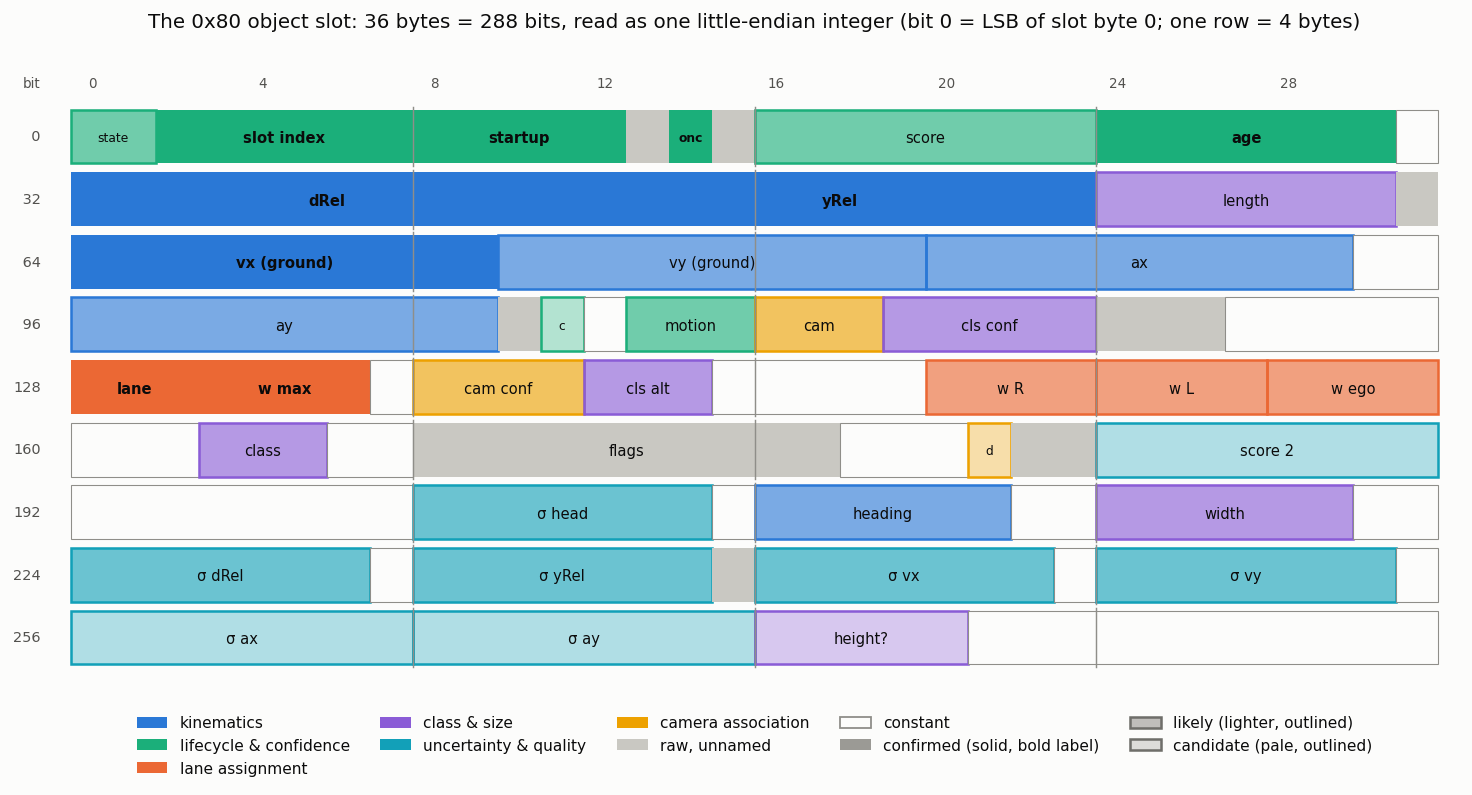
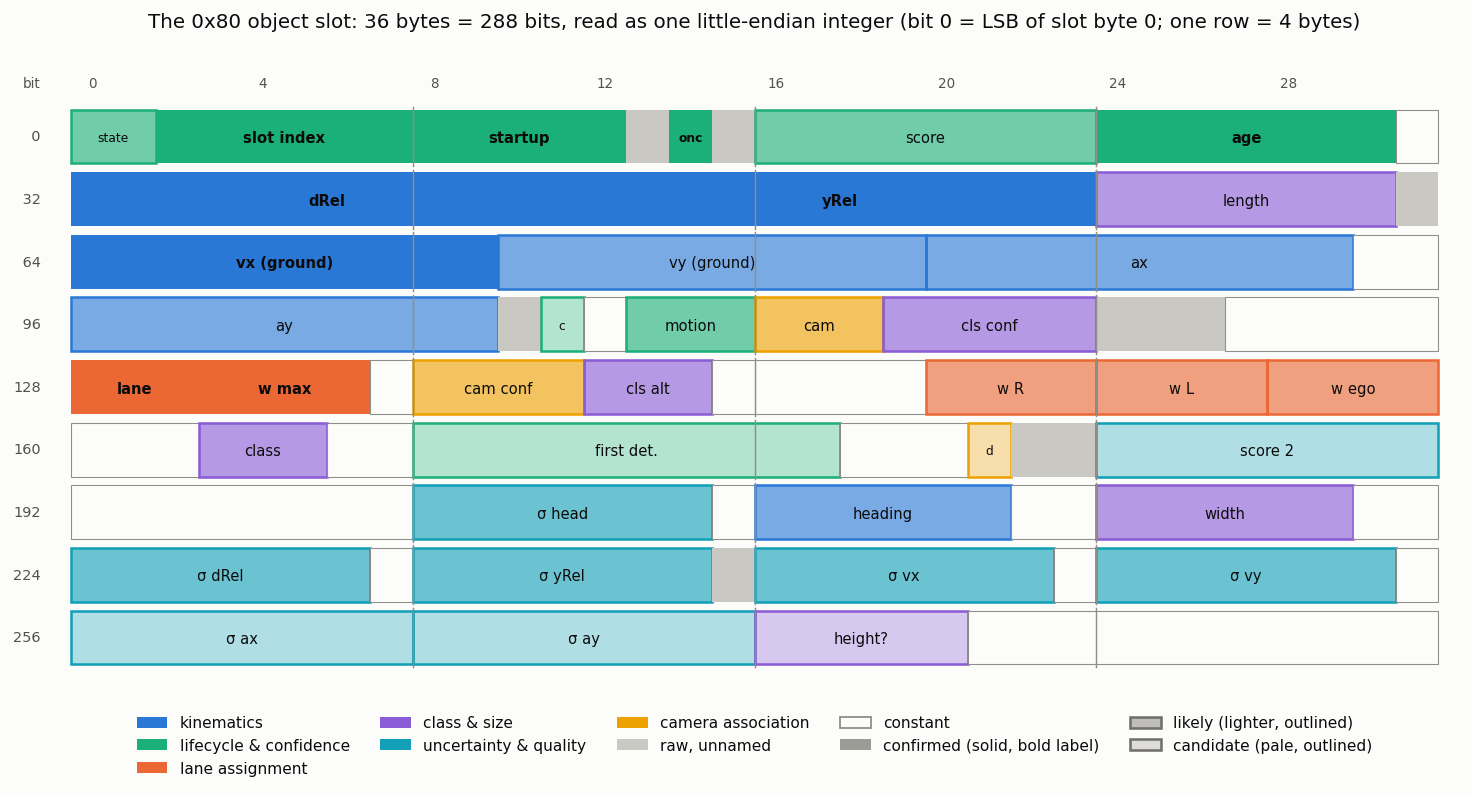
docs: slot 168|10 is a per-track first-detection pattern (k of 5 cycles, set by the range of first detection) (#65)

Changed region(s): [[0.2812, 0.5132, 0.5938, 0.6038]]

diff --git a/tools/make_analysis_figures.py b/tools/make_analysis_figures.py
@@ -470,7 +470,7 @@ SLOT_FIELDS = [
     (120, 3, "", RAW, "raw"), (123, 5, "", CONST, "const"), (128, 3, "lane", LANE, "confirmed"), (131, 4, "w max", LANE, "confirmed"),
     (135, 1, "", CONST, "const"), (136, 4, "cam conf", CAM, "likely"), (140, 3, "cls alt", CLS, "likely"), (143, 5, "", CONST, "const"),
     (148, 4, "w R", LANE, "likely"), (152, 4, "w L", LANE, "likely"), (156, 4, "w ego", LANE, "likely"),
-    (160, 3, "", CONST, "const"), (163, 3, "class", CLS, "likely"), (166, 2, "", CONST, "const"), (168, 10, "flags", RAW, "raw"),
+    (160, 3, "", CONST, "const"), (163, 3, "class", CLS, "likely"), (166, 2, "", CONST, "const"), (168, 10, "first det.", LIFE, "candidate"),
     (178, 3, "", CONST, "const"), (181, 1, "d", CAM, "candidate"), (182, 1, "", RAW, "raw"), (183, 1, "", RAW, "raw"),
     (184, 8, "score 2", UNC, "candidate"), (192, 8, "", CONST, "const"), (200, 7, "σ head", UNC, "likely"),
     (207, 1, "", CONST, "const"), (208, 6, "heading", KIN, "likely"), (214, 2, "", CONST, "const"),

diff --git a/tools/build_cabana_route.py b/tools/build_cabana_route.py
@@ -100,7 +100,7 @@ SIGNAL_COMMENTS = {
     "UNK_269_3": "Upper bits of the candidate sigma ay at 264.",
     "UNK_183_7": "Bit 183 raw; bits 184-189 are the low bits of a secondary score byte 184|8 (percent: 100 on 98 % of rows, 60-99 on young tracks).",
     "UNK_190_10": "Bits 190-191 = top of the secondary score byte 184|8; bits 192-199 are zero.",
-    "UNK_168_10": "Flag word: only codes 0, 768, 832 and 1023 occur.",
+    "UNK_168_10": "All ones or all zeros (768 / 832 rare): a per-track pattern of k cycles on in every 5, locked to the track's age; k follows the range where the track was first seen (far: always on).",
     "UNK_15_1": "Raw; mostly set on newborn zero-range rows.",
     "UNK_239_1": "Raw; often set near track birth.",
     "UNK_277_11": "Raw; bit 277 rarely set on newborn tracks.",

diff --git a/docs/03_slot_fields.md b/docs/03_slot_fields.md
@@ -231,6 +231,7 @@ height-like `272|5` code spans 4-11. Counts are in [`class5_video_review.json`](
 | `256\|8` | σ ax candidate | the only code that follows the frame scatter of ax (Spearman 0.15, others ≤ 0.03); grows with range and with age | ○ |
 | `264\|8` | σ ay candidate | follows the frame scatter of ay (0.29) and vy; shrinks with age (11 at age 5-10, 2 from age 40) | ○ |
 | `184\|8` | secondary score | percent: 100 on 98 % of rows, 60-99 on young tracks | ○ |
+| `168\|10` | first-detection pattern | all ones or all zeros; a per-track pattern of k cycles on in every 5, locked to the track's age; k follows the range where the track was first seen | ○ |
 
 - **Which error each sigma follows** (two drives, within range bins): `224|7` and `240|7` follow longitudinal errors
   (range, speed against the ACC target, acceleration), `232|7` and `248|7` lateral ones (Spearman ≈ 0.4): the
@@ -247,6 +248,12 @@ height-like `272|5` code spans 4-11. Counts are in [`class5_video_review.json`](
 - **Optical check:** against the camera reference (40-80 m) the disagreement grows at 0.049 m/s per count (R² 0.81
   over code deciles); that mixes both estimators' errors, so physical units remain provisional
   ([summary](../data/analysis/summaries/video_truth.json)).
+
+**`168|10`** is 1023 or 0 (768 and 832 on 0.4 % of rows). A track keeps one pattern for life: on in k of every 5 cycles, with the
+phase tied to its age (the value equals the one 5 cycles earlier on 97.9 % of rows of mixed tracks). Tracks first seen
+beyond 70 m are on in 98 % of cycles, those first seen at 40-70 m in 86 % and those first seen inside 40 m in 34-46 %, so the
+field records how the track was first detected (the far scan sets it) rather than its present state
+([`slot_camera_association.json`](../data/analysis/summaries/slot_camera_association.json)).
 
 A saturated velocity (`64|10` = 1023, about +77 m/s over ground) always comes with `240|7` = 127. It appears in
 short runs on mature tracks at 34–97 m and often decays through 1022, 1014, 1006 over subsequent records. `raw`
@@ -265,8 +272,7 @@ establish physical stationarity or a graded-confidence enum. The raw code is uns
 
 ## Raw and constant bits
 
-- **Raw, unnamed:** 13, 15, 63, 106, `120|3`, `168|10` (only codes 0, 768, 832, 1023), 182, 183, 239. Bits 15 and 239
-  are mostly active near track birth.
+- **Raw, unnamed:** 13, 15, 63, 106, `120|3`, 182, 183, 239. Bits 15 and 239 are mostly active near track birth.
 - **Constant in the captured data:** 31, `94|2`, 108, `123|5`, 135, `143|5`, `160|3`, `166|2`, `178|3`, `192|8`, 207,
   `214|2`, `222|2`, 231, 247, 255, `277|11` (zero on all but a handful of rows).
 
